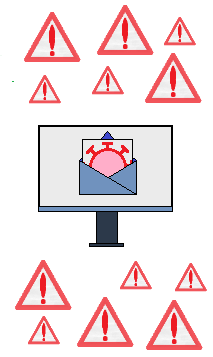
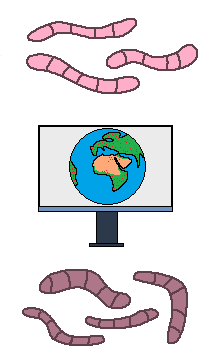
Képek elkészítése a számítógépes férgek illusztrálásához

Changed region(s): [[0.0563, 0.7087, 0.9859, 0.986], [0.1127, 0.0, 0.9577, 0.3081], [0.3099, 0.3389, 0.7042, 0.5854]]

diff --git a/src/main/resources/learningdata/worms/page1.html b/src/main/resources/learningdata/worms/page1.html
@@ -18,7 +18,7 @@
                     </p>
                 </td>
                 <td>
-                    <img src="src/main/resources/learningdata/viruses/page1.png" alt="worm">
+                    <img src="src/main/resources/learningdata/worms/page1.png" alt="worm">
                 </td>
             </tr>
         </table>
